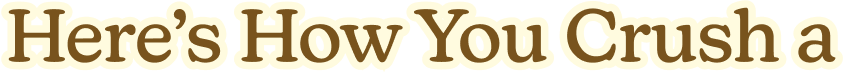
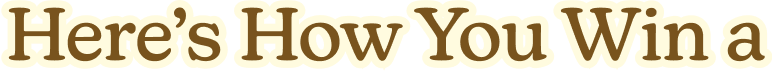
Add some copywriting to organizer site

diff --git a/src/routes/example/+page.svelte b/src/routes/example/+page.svelte
@@ -924,7 +924,7 @@ Mumbai`.split("\n")
 	<div class="absolute top-0 left-0 w-full h-full bg-[url('brushstroking.png')] bg-size-[100vw_100vh] bg-repeat mix-blend-overlay opacity-30 pointer-events-none -z-40"></div>
 	
 	<div class="relative max-w-4xl mx-auto h-full flex items-start pt-24 max-sm:pt-40 px-8 max-sm:px-2">
-		<div class="relative z-20 px-20 pt-20 pb-32 rounded-lg mb-0 max-sm:px-18" style="background-image: url('/letter-top.png'), linear-gradient(to bottom, #FCEFC5 100px, transparent 100px), url('/letter-loop.png'); background-size: 100% auto, 100% auto, 100% auto; background-repeat: no-repeat, no-repeat, repeat-y; background-position: top, top, top; background-attachment: local, local, local;">
+		<div class="relative z-20 px-20 pt-20 pb-52 rounded-lg mb-0 max-sm:px-18" style="background-image: url('/letter-top.png'), linear-gradient(to bottom, #FCEFC5 100px, transparent 100px), url('/letter-loop.png'); background-size: 100% auto, 100% auto, 100% auto; background-repeat: no-repeat, no-repeat, repeat-y; background-position: top, top, top; background-attachment: local, local, local;">
 			<div class="absolute bottom-0 left-0 w-full h-24 z-10 pointer-events-none bg-[url('/clouds-loop.png')] bg-repeat-x bg-bottom bg-contain"></div>
 			<h2 class="text-5xl font-serif italic text-[#8B4513] mb-10 relative">
 				Dear Hacker,
@@ -958,10 +958,6 @@ Mumbai`.split("\n")
 					Our goal is to get <span class="font-bold">4,000 Hack Clubbers</span> to make projects they're proud of 
 					through Daydream, and we're giving out over <span class="font-bold">$120k in funding</span> to organizers 
 					like you!
-				</p>
-				
-				<p class="text-center font-bold text-2xl mt-10 text-[#2C3E50]">
-					Check out our <a class="underline hover:text-pink" href="https://www.youtube.com/watch?v=hNYsNSY7Vz0">video!</a>
 				</p>
 			</div>
 		</div>
@@ -1176,7 +1172,7 @@ Mumbai`.split("\n")
 	</div>
 	
 	<div class="relative w-10/12 h-auto object-contain cursor-text flex flex-row max-lg:flex-wrap md:translate-y-0 max-lg:translate-y-1/5 items-center justify-center align-middle max-w-5xl z-50">
-		<img src="gamejam-1-alt.png" alt="Here's How You Crush a" class="flex-shrink min-w-0 object-contain">
+		<img src="gamejam-1-alt.png" alt="Here's How You Win a" class="flex-shrink min-w-0 object-contain">
 		<img src="gamejam-2.png" alt="Game Jam" class="flex-shrink min-w-0 object-contain">
 	</div>
 </div>
@@ -1215,7 +1211,7 @@ Mumbai`.split("\n")
 			<div class="relative w-72 h-40 max-md:w-80 animate-hover ![--hover:-0.15rem] ![animation-delay:0.3s] z-20" data-point="2">
 				<img src="paper2.png" alt="" class="w-full h-full object-contain">
 				<div class="absolute inset-0 justify-center text-center p-6 text-xl font-serif max-md:text-lg text-[#8B4513] inline-block content-center">
-					<span class="font-sans text-[#639DEB] font-bold text-[1.3rem] mr-1">#2:</span> Find a team of other teenagers at the event
+					<span class="font-sans text-[#639DEB] font-bold text-[1.3rem] mr-1">#2:</span> Attend a workshop and learn about game development
 				</div>
 			</div>
 		</div>
@@ -1228,7 +1224,7 @@ Mumbai`.split("\n")
 			<div class="relative w-72 h-40 max-md:w-80 animate-hover ![--hover:-0.15rem] ![animation-delay:1.4s] z-20" data-point="3">
 				<img src="paper3.png" alt="" class="w-full h-full object-contain">
 				<div class="absolute inset-0 justify-center text-center p-6 text-xl font-serif max-md:text-lg text-[#8B4513] inline-block content-center">
-					<span class="font-sans text-[#AB68E2] font-bold text-[1.3rem] mr-1">#3:</span> Start building your game - <em>no experience needed</em>
+					<span class="font-sans text-[#AB68E2] font-bold text-[1.3rem] mr-1">#3:</span> Find a team of other teenagers at the event
 				</div>
 			</div>
 		</div>
@@ -1241,7 +1237,7 @@ Mumbai`.split("\n")
 			<div class="relative w-72 h-40 max-md:w-80 animate-hover ![--hover:-0.15rem] ![animation-delay:2.3s] z-20" data-point="4">
 				<img src="paper4.png" alt="" class="w-full h-full object-contain">
 				<div class="absolute inset-0 justify-center text-center p-6 text-xl font-serif max-md:text-lg text-[#8B4513] inline-block content-center">
-					<span class="font-sans text-[#F2993E] font-bold text-[1.3rem] mr-1">#4:</span> Attend workshops or talk to one of our mentors for help
+					<span class="font-sans text-[#F2993E] font-bold text-[1.3rem] mr-1">#4:</span> Start building your game - <em>no experience needed</em>
 				</div>
 			</div>
 		</div>
@@ -1266,7 +1262,7 @@ Mumbai`.split("\n")
 <div class="w-full bg-gradient-to-b from-[#FDC5D1] to-[#FAE3C9] items-center justify-center px-0 md:px-8 relative pt-36">
 	<div class="w-full max-w-5xl lg:max-w-6xl mx-auto px-2 md:px-8">
 		<div class="relative w-full min-w-72">
-			<img src="banner.png" alt="100 Cities Worldwide" class="absolute top-0 left-1/2 -translate-x-1/2 -translate-y-1/3 md:-translate-y-[40%] h-48 w-auto z-100 scale-[1.15] md:scale-[1.65] saturate-70 brightness-110 object-contain px-4 pointer-events-none">
+			<img src="banner-city.png" alt="Find a Daydream Near You" class="absolute top-0 left-1/2 -translate-x-1/2 -translate-y-1/3 md:-translate-y-[40%] h-48 w-auto z-100 scale-[1.15] md:scale-[1.65] saturate-70 brightness-110 object-contain px-4 pointer-events-none">
 			
 			<!-- Map container with cloudy edges -->
 			<div class="relative w-full h-156 overflow-hidden bg-transparent">
@@ -1437,35 +1433,34 @@ Mumbai`.split("\n")
 				<div class="absolute inset-0 bg-gradient-to-b from-transparent via-white/10 to-transparent bg-[length:100%_8px] bg-repeat-y pointer-events-none opacity-20"></div>
 				
 				<div class="space-y-8 max-sm:space-y-4 relative z-10">
-					<!-- Title -->
 					<h2 class="text-5xl md:text-6xl lg:text-7xl font-pixel leading-tight">
 						What will you <img src="/dream-pixel.png" alt="Dream?" class="h-[0.75em] font-serif italic [image-rendering:pixelated] inline align-middle -translate-y-1.5">
 					</h2>
 					
-					<!-- Subtitle -->
 					<p class="text-xl md:text-2xl opacity-90 font-pixel">
-						Deven's body here Lorem Ipsum Dolor Sit Amet
+						You can make any game you want as long as it can be deployed on itch.io! All games made must be deployed and available online for other participants to play and experience. We will only accept itch.io submission links.
+						<br>
+						<br>
+						Here are some cool projects from past hackathons to get you inspired:
 					</p>
 					
-					<!-- List -->
-					<ul class="space-y-4 font-pixel text-xl md:text-2xl">
+					<ul class="space-y-2 font-pixel text-xl md:text-2xl">
 						<li class="flex items-start">
 							<span class="mr-4">•</span>
-							<span class="underline">List item One</span>
+							<a href="https://bucketfish.itch.io/remedy-renemy" target="_blank" class="underline mr-2">Remedy Renemy</a>by Tongyu and Kai Ling
 						</li>
 						<li class="flex items-start">
 							<span class="mr-4">•</span>
-							<span class="underline">List thing two</span>
+							<a href="https://nanomars.itch.io/not-an-idle" target="_blank" class="underline">Not an Idle</a> by Armand
 						</li>
 						<li class="flex items-start">
 							<span class="mr-4">•</span>
-							<span class="underline">List thing three</span>
+							<a href="https://juanes10201.itch.io/speedtickers" target="_blank" class="underline">SPEEDTICKERS</a> by Agustin
 						</li>
 					</ul>
 					
-					<!-- Description -->
 					<p class="text-xl md:text-2xl opacity-90 font-pixel leading-relaxed">
-						There's some more text down here, an entire sentence in fact. There's a lot of content in this box.
+						We'll have workshops and activities before Daydream to help you learn game development using Godot! 
 					</p>
 					
 					<!-- Bottom section with input -->
